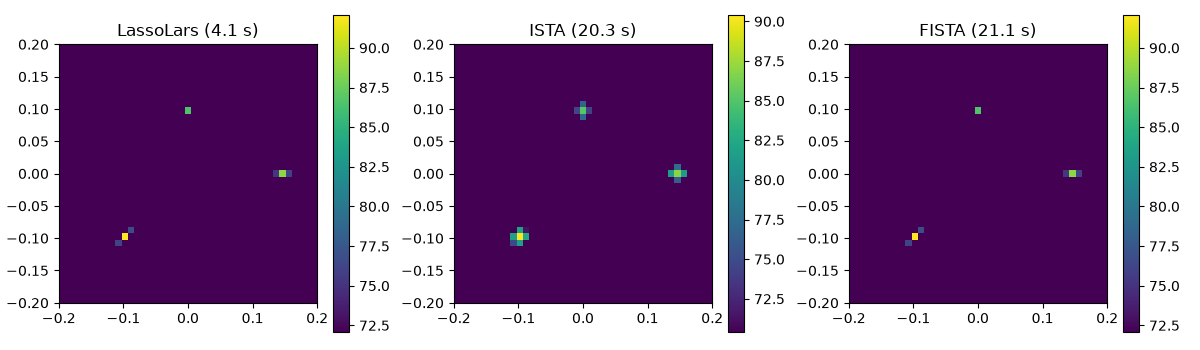
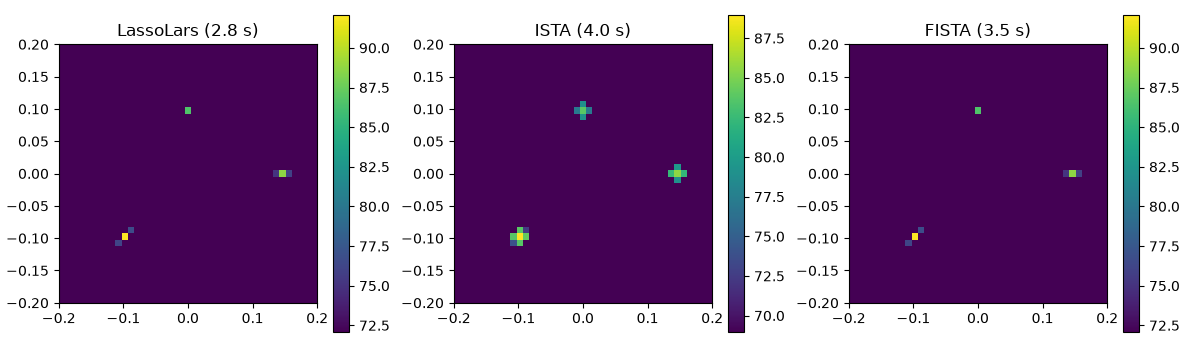
update

diff --git a/src/ucmf/optim/utils.py b/src/ucmf/optim/utils.py
@@ -99,23 +99,49 @@ def apply_adjoint_operator(v, Op):
     return torch.bmm(v.unsqueeze(1), Op).squeeze(1)
 
 
-def default_gamma_from_A(A):
-    """Return the step size ``m / ||A||_2**2`` for normalized least squares.
+DEFAULT_GAMMA_SAFETY = 1.05
 
-    Uses the squared spectral norm of a shared or batched sensing matrix,
-    returning a scalar or a tensor of shape ``(B,)`` respectively. It is the
-    largest eigenvalue of the smaller Gram matrix (``A.T @ A`` or ``A @ A.T``);
-    a symmetric eigensolver is much faster than an SVD, especially on GPUs.
-    The computation does not track gradients. Zero or non-finite squared
-    spectral norms raise ValueError.
+
+def default_gamma_from_A(A):
+    """Return the step size ``1 / L`` for normalized least squares.
+
+    ``L = 1.05 * ||A||_2**2 / m`` is the Lipschitz constant of the normalized
+    data term's gradient, with ``||A||_2**2`` estimated by 50 power iterations
+    (:func:`estimate_squared_spectral_norm`). The estimate is a lower bound;
+    the safety factor 1.05 keeps ``gamma <= m / ||A||_2**2`` in typical cases
+    (power iteration converges slowly when the top singular values are close).
+    Shared or batched ``A`` give a scalar or ``(B,)`` tensor. No gradients are
+    tracked. Zero or non-finite estimates raise ValueError.
     """
-    with torch.no_grad():
-        gram = A.mT @ A if A.shape[-1] <= A.shape[-2] else A @ A.mT
-        L = torch.linalg.eigvalsh(gram)[..., -1] / float(A.shape[-2])
-        if torch.any(~torch.isfinite(L) | (L <= 0)):
-            msg = 'A must have a finite, nonzero spectral norm when gamma is omitted.'
-            raise ValueError(msg)
+    L = DEFAULT_GAMMA_SAFETY * estimate_squared_spectral_norm(A) / float(A.shape[-2])
+    if torch.any(~torch.isfinite(L) | (L <= 0)):
+        msg = 'A must have a finite, nonzero spectral norm when gamma is omitted.'
+        raise ValueError(msg)
     return 1.0 / L
+
+
+@torch.no_grad()
+def estimate_squared_spectral_norm(A, n_iter=50, seed=0):
+    """Estimate ``||A||_2**2`` by power iteration on ``A.T @ A``.
+
+    Works for a shared ``(m, n)`` or batched ``(B, m, n)`` matrix and returns a
+    scalar or a ``(B,)`` tensor. The result is the Rayleigh quotient
+    ``||A v||**2`` of the final unit vector ``v``, i.e. a lower bound of the
+    exact value; callers needing a safe Lipschitz bound apply a safety factor.
+
+    The start vector is drawn from a dedicated CPU generator seeded with
+    ``seed``: results are deterministic and the global RNG is not consumed.
+    A fixed ``n_iter`` (no tolerance check) avoids host-device syncs.
+    """
+    generator = torch.Generator().manual_seed(seed)
+    v = torch.randn(*A.shape[:-2], A.shape[-1], 1, generator=generator, dtype=A.dtype).to(A.device)
+    v = v / torch.linalg.vector_norm(v, dim=-2, keepdim=True)
+    for _ in range(n_iter):
+        # v <- A.T A v / ||A.T A v||, (..., n, 1)
+        v = A.mT @ (A @ v)
+        v = v / torch.linalg.vector_norm(v, dim=-2, keepdim=True)
+    # Rayleigh quotient v.T A.T A v = ||A v||**2 for unit v.
+    return torch.linalg.vector_norm(A @ v, dim=(-2, -1)) ** 2
 
 
 def resolve_batch_param(value, batch_size, name):

diff --git a/tests/test_callbacks.py b/tests/test_callbacks.py
@@ -22,8 +22,9 @@ def test_default_step_and_threshold_use_normalized_objective(solver_type):
 
     solver(torch.zeros(1, 3), A=A, lam=0.2, t=1)
 
-    torch.testing.assert_close(collector.gammas_tensor, torch.tensor([0.75]))
-    torch.testing.assert_close(collector.thetas_tensor, torch.tensor([0.15]))
+    # gamma = m / (1.05 * ||A||_2**2) = 3 / (1.05 * 4); theta = lam * gamma.
+    torch.testing.assert_close(collector.gammas_tensor, torch.tensor([0.75 / 1.05]))
+    torch.testing.assert_close(collector.thetas_tensor, torch.tensor([0.15 / 1.05]))
 
 
 @pytest.mark.parametrize('gamma', [0.25, torch.tensor(0.25), [0.25, 0.5]])
@@ -97,7 +98,8 @@ def test_custom_callbacks_can_stop_at_either_boundary(solver_type, stop_at):
             if stop_at == 'end':
                 solver.stop = True
 
-    actual = solver_type(callbacks=[Stop(), outputs])(torch.ones(2), A=torch.eye(2), lam=0.0, t=8)
+    # gamma = m / ||A||_2**2 = 2: one step solves A = I exactly.
+    actual = solver_type(callbacks=[Stop(), outputs])(torch.ones(2), A=torch.eye(2), lam=0.0, gamma=2.0, t=8)
 
     completed = 0 if stop_at == 'begin' else 1
     assert len(outputs.intermediates) == completed
@@ -109,7 +111,8 @@ def test_stopper_converges_and_resets_between_solves(solver_type):
     stopper = SolutionChangeStopper(tol=1e-9, check_every=1)
     outputs = IntermediateOutputCollector()
     solver = solver_type(callbacks=[stopper, outputs])
-    x = solver(torch.ones(2, 3), A=torch.eye(3), lam=0.0, t=100)
+    # gamma = m / ||A||_2**2 = 3: one step solves A = I exactly.
+    x = solver(torch.ones(2, 3), A=torch.eye(3), lam=0.0, gamma=3.0, t=100)
 
     torch.testing.assert_close(x, torch.ones(2, 3))
     assert stopper.converged
@@ -117,7 +120,7 @@ def test_stopper_converges_and_resets_between_solves(solver_type):
     assert stopper.n_steps == 2
     assert len(outputs.intermediates) == 2
 
-    solver(torch.zeros(2, 3), A=torch.eye(3), lam=0.0, t=100)
+    solver(torch.zeros(2, 3), A=torch.eye(3), lam=0.0, gamma=3.0, t=100)
     assert stopper.converged
     assert stopper.stop_iter == 0
     assert stopper.n_steps == 1
@@ -128,14 +131,14 @@ def test_stopper_converges_and_resets_between_solves(solver_type):
 def test_stopper_checks_only_every_check_every_steps(solver_type):
     stopper = SolutionChangeStopper(tol=1e-9, check_every=5)
     solver = solver_type(callbacks=[stopper])
-    solver(torch.ones(2, 3), A=torch.eye(3), lam=0.0, t=100)
+    solver(torch.ones(2, 3), A=torch.eye(3), lam=0.0, gamma=3.0, t=100)
     assert stopper.converged
     assert stopper.stop_iter == 4
     assert stopper.n_steps == 5
 
     stopper = SolutionChangeStopper(tol=1e-9, check_every=5)
     solver = solver_type(callbacks=[stopper])
-    solver(torch.ones(2, 3), A=torch.eye(3), lam=0.0, t=3)
+    solver(torch.ones(2, 3), A=torch.eye(3), lam=0.0, gamma=3.0, t=3)
     assert not stopper.converged
     assert stopper.last_change is None
     assert stopper.n_steps == 3

diff --git a/tests/test_optim_utils.py b/tests/test_optim_utils.py
@@ -4,6 +4,7 @@ from ucmf.optim.utils import (
     apply_adjoint_operator,
     apply_forward_operator,
     default_gamma_from_A,
+    estimate_squared_spectral_norm,
     prepare_sensing_matrix,
     resolve_batch_param,
     to_batch_vector,
@@ -84,14 +85,53 @@ def test_sensing_matrix_is_detached_contiguous_without_conversion():
 
 @pytest.mark.parametrize('batched', [False, True])
 def test_default_step_size_uses_spectral_norm_without_autograd(batched):
+    # ||A||_2**2 = 4 (and 16), m = 2, safety 1.05: gamma = m / (1.05 * ||A||_2**2).
     A = torch.diag(torch.tensor([2.0, 1.0]))
     if batched:
         A = torch.stack([A, 2 * A])
     A.requires_grad_()
-    expected = torch.tensor([0.5, 0.125]) if batched else torch.tensor(0.5)
+    expected = torch.tensor([2 / 4.2, 2 / 16.8]) if batched else torch.tensor(2 / 4.2)
     result = default_gamma_from_A(A)
     torch.testing.assert_close(result, expected)
     assert not result.requires_grad
+
+
+@pytest.mark.parametrize('batched', [False, True])
+def test_power_iteration_estimates_squared_spectral_norm_from_below(batched):
+    # Accuracy depends on the gap sigma_2 / sigma_1 (here 0.8 by construction);
+    # generic random matrices may converge much more slowly.
+    torch.manual_seed(1)
+    batch = (3,) if batched else ()
+    U = torch.linalg.qr(torch.randn(*batch, 40, 25, dtype=torch.float64)).Q
+    V = torch.linalg.qr(torch.randn(*batch, 25, 25, dtype=torch.float64)).Q
+    sigma = torch.linspace(0.8, 0.1, 25, dtype=torch.float64)
+    sigma[0] = 1.0
+    A = (U * sigma) @ V.mT
+    A.requires_grad_()
+    estimate = estimate_squared_spectral_norm(A)
+    assert estimate.shape == batch
+    assert not estimate.requires_grad
+    torch.testing.assert_close(estimate, torch.ones(batch, dtype=torch.float64), rtol=1e-12, atol=0)
+
+
+def test_power_iteration_is_a_lower_bound_for_random_matrices():
+    torch.manual_seed(1)
+    A = torch.randn(20, 40, 25, dtype=torch.float64)
+    exact = torch.linalg.matrix_norm(A, ord=2) ** 2
+    assert torch.all(estimate_squared_spectral_norm(A) <= exact * (1 + 1e-12))  # Rayleigh quotient
+
+
+def test_power_iteration_is_exact_for_diagonal_matrix():
+    A = torch.diag(torch.tensor([3.0, 1.0, 0.5], dtype=torch.float64))
+    torch.testing.assert_close(estimate_squared_spectral_norm(A), torch.tensor(9.0, dtype=torch.float64))
+
+
+def test_power_iteration_is_deterministic_and_leaves_global_rng_untouched():
+    A = torch.randn(30, 20, dtype=torch.float64)
+    state = torch.get_rng_state()
+    first = estimate_squared_spectral_norm(A)
+    assert torch.equal(torch.get_rng_state(), state)
+    assert torch.equal(estimate_squared_spectral_norm(A), first)
 
 
 def test_tensor_validation_does_not_modify_input_or_autograd():

diff --git a/tests/test_ista.py b/tests/test_ista.py
@@ -4,6 +4,7 @@ import inspect
 import math
 
 from ucmf import FISTA, ISTA
+from ucmf.optim.utils import default_gamma_from_A
 
 import numpy as np
 import pytest
@@ -13,11 +14,16 @@ SOLVERS = [ISTA, FISTA]
 
 
 def numpy_reference(A, y, x0, lam, gamma, *, steps, positive, accelerated):
-    """Independent, sample-wise matrix-vector implementation in NumPy."""
+    """Independent, sample-wise matrix-vector implementation in NumPy.
+
+    The default step is taken from ucmf (power-iteration estimate for the whole,
+    possibly batched A); its formula is tested separately in test_optim_utils.
+    """
+    default_steps = np.broadcast_to(default_gamma_from_A(torch.from_numpy(A)).numpy(), (len(y),))
     solutions = []
     for sample, observation in enumerate(y):
         matrix = A if A.ndim == 2 else A[sample]
-        step = matrix.shape[0] / np.linalg.norm(matrix, ord=2) ** 2 if gamma is None else gamma[sample]
+        step = default_steps[sample] if gamma is None else gamma[sample]
         x = x0[sample].copy()
         extrapolated = x.copy()
         momentum = 1.0
@@ -145,7 +151,8 @@ def test_sensing_matrix_is_fixed_but_measurements_remain_differentiable(solver_t
     A = torch.eye(2, requires_grad=True)
     y = torch.ones(1, 2, requires_grad=True)
     solver = solver_type()
-    solver(y, A=A, lam=0.0, t=2).sum().backward()
+    # gamma = m / ||A||_2**2 = 2: each step solves A = I exactly.
+    solver(y, A=A, lam=0.0, gamma=2.0, t=2).sum().backward()
 
     assert A.grad is None
     torch.testing.assert_close(y.grad, torch.ones_like(y))

diff --git a/examples/benchmark_solvers.py b/examples/benchmark_solvers.py
@@ -18,6 +18,7 @@ import acoular as ac
 from acoular.solvers import L1RegularizedLeastSquaresProblem, LeastSquaresSolver, SolverBase, SolverOutput
 
 from ucmf.acoular import FISTATorchSolver, ISTATorchSolver
+from ucmf.optim.utils import default_gamma_from_A
 
 import numpy as np
 import torch
@@ -35,14 +36,21 @@ class PylopsSolver(LeastSquaresSolver):
 
     PyLops minimizes ``||y - A x||² + eps ||x||₁``. With ``eps = 2 m lam`` this
     matches ``||y - A x||² / (2 m) + lam ||x||₁`` for ``lam = alpha * unit_mult``.
+    PyLops' step ``x + a A.T (y - A x)`` with threshold ``eps a / 2`` equals the
+    ucmf step ``x + gamma A.T (y - A x) / m`` with threshold ``gamma lam`` for
+    ``a = gamma / m``. Both use ucmf's default ``gamma``, so the iterates agree.
     """
 
     algorithm = Callable()
     n_iter = Int()
 
     def solve(self, problem, dictionary_matrix, data, start_value=None):
-        eps = 2 * dictionary_matrix.shape[0] * problem.alpha * problem.unit_mult
-        x, _, _ = self.algorithm(Op=MatrixMult(dictionary_matrix), y=data, niter=self.n_iter, eps=eps, tol=0.0)
+        m = dictionary_matrix.shape[0]
+        eps = 2 * m * problem.alpha * problem.unit_mult
+        step = float(default_gamma_from_A(torch.from_numpy(dictionary_matrix))) / m
+        x, _, _ = self.algorithm(
+            Op=MatrixMult(dictionary_matrix), y=data, niter=self.n_iter, eps=eps, alpha=step, tol=0.0
+        )
         return SolverOutput(solution=x)
 
 

diff --git a/tests/test_weighted_forward.py b/tests/test_weighted_forward.py
@@ -4,6 +4,7 @@ import math
 
 from ucmf import FISTA, ISTA
 from ucmf.optim import IterationCallback
+from ucmf.optim.utils import default_gamma_from_A
 
 import numpy as np
 import pytest
@@ -11,12 +12,16 @@ import torch
 
 
 def weighted_numpy_reference(A, W, y, x0, lam, gamma, *, positive, accelerated):
-    """Independent weighted-update oracle, not a classical LASSO solver."""
+    """Independent weighted-update oracle, not a classical LASSO solver.
+
+    The default step is taken from ucmf (power-iteration estimate for the whole A).
+    """
+    default_steps = np.broadcast_to(default_gamma_from_A(torch.from_numpy(A)).numpy(), (len(y),))
     solutions = []
     for sample, observation in enumerate(y):
         matrix = A if A.ndim == 2 else A[sample]
         weight = W if W.ndim == 2 else W[sample]
-        step = matrix.shape[0] / np.linalg.norm(matrix, ord=2) ** 2 if gamma is None else gamma[sample]
+        step = default_steps[sample] if gamma is None else gamma[sample]
         x = x0[sample].copy()
         z = x.copy()
         tk = 1.0

diff --git a/src/ucmf/optim/ista.py b/src/ucmf/optim/ista.py
@@ -234,7 +234,8 @@ class ISTA(nn.Module):
             lam (float | Tensor | None): required regularization
                 strength, scalar or per-sample with shape ``(B,)`` / ``(B, 1)``.
             gamma (float | Tensor | None): scalar or per-sample
-                step size. Defaults to ``m / ||A||_2**2`` for LS.
+                step size. Defaults to ``1 / L`` with ``L = 1.05 * ||A||_2**2 / m``
+                (power-iteration estimate, see ``default_gamma_from_A``).
 
         Returns
         -------

diff --git a/examples/sparse_recovery.py b/examples/sparse_recovery.py
@@ -40,8 +40,8 @@ st = ac.SteeringVector(grid=rg, mics=mg)
 # for a solver-only runtime comparison.
 solvers = {
     'LassoLars': LassoLarsSolver(backend_kwargs={'fit_intercept': False}),
-    'ISTA': ISTATorchSolver(),
-    'FISTA': FISTATorchSolver(),
+    'ISTA': ISTATorchSolver(device='cuda', n_iter=2000),
+    'FISTA': FISTATorchSolver(device='cuda', n_iter=2000),
 }
 plt.figure(figsize=(12, 3.5))
 for i, (name, solver) in enumerate(solvers.items(), start=1):

diff --git a/README.md b/README.md
@@ -156,16 +156,17 @@ bf = ac.BeamformerCMF(freq_data=ps, steer=st, problem=problem)
 [`examples/sparse_recovery.py`](examples/sparse_recovery.py) simulates the
 three white-noise sources of Acoular's introductory example in front of the
 64-microphone array and solves the same CMF problem (third-octave band at
-8 kHz, `alpha=1e-9`) with LassoLars, ISTA, and FISTA (5000 iterations each,
-CPU, float64). The titles show the total computation time, including the
-per-bin CSM and dictionary assembly shared by all solvers:
+8 kHz, `alpha=1e-9`) with LassoLars (CPU) and ISTA and FISTA (2000 iterations
+each, CUDA GPU, float64; the example requires a CUDA device). The titles show
+the total computation time, including the per-bin CSM and dictionary assembly
+shared by all solvers:
 
 ![CMF maps of three sources with LassoLars, ISTA, and FISTA](docs/images/three_sources_cmf.png)
 
-FISTA matches the LassoLars map up to a relative difference of about `2e-4`.
-ISTA has not yet converged after 5000 iterations and still yields
+FISTA matches the LassoLars map up to a relative difference of about `8e-4`.
+ISTA has not yet converged after 2000 iterations and still yields
 spatially smeared sources. For this small, very sparse problem, LassoLars
-is faster than 5000 first-order iterations on the CPU.
+on the CPU is still faster than 2000 first-order iterations on the GPU.
 
 ### Benchmark: ucmf vs. PyLops
 
@@ -175,29 +176,30 @@ and dictionary assembly) of ucmf and PyLops ISTA/FISTA on the same problem:
 1000 iterations per frequency bin without early stopping, 5 frequency bins,
 dictionary of 4032 × 1681. PyLops has no non-negativity constraint, so all
 solvers use `nonnegative=False`; PyLops' objective `||y - A x||² + eps ||x||₁`
-matches with `eps = 2 m alpha unit_mult`. Thread counts are set with
+matches with `eps = 2 m alpha unit_mult`. PyLops gets ucmf's default step size
+(its `alpha = gamma / m`), so both run identical iterations. Thread counts are set with
 `torch.set_num_threads` and threadpoolctl (Acoular sets
 `OPENBLAS_NUM_THREADS=1` on import). Results on 2× Intel Xeon Silver 4214R (24 cores) and an RTX 3090:
 
 | Algorithm | Implementation | Threads | Time [s] | Speed-up vs. PyLops (1 thread) | Rel. diff. to PyLops |
 |---|---|---|---|---|---|
-| ISTA | PyLops | 1 | 38.69 | 1.0x | 0 |
-| ISTA | ucmf CPU float64 | 1 | 40.30 | 1.0x | 5.9e-16 |
-| ISTA | PyLops | 24 | 9.95 | 3.9x | 3.6e-16 |
-| ISTA | ucmf CPU float64 | 24 | 5.20 | 7.4x | 4.7e-16 |
-| ISTA | ucmf CUDA float64 | - | 1.40 | 27.7x | 4.7e-16 |
-| ISTA | ucmf CUDA float32 | - | 0.68 | 56.5x | 8.0e-06 |
-| FISTA | PyLops | 1 | 56.08 | 1.0x | 0 |
-| FISTA | ucmf CPU float64 | 1 | 40.76 | 1.4x | 1.4e-13 |
-| FISTA | PyLops | 24 | 12.29 | 4.6x | 1.8e-13 |
-| FISTA | ucmf CPU float64 | 24 | 4.65 | 12.1x | 1.3e-13 |
-| FISTA | ucmf CUDA float64 | - | 1.55 | 36.1x | 9.7e-14 |
-| FISTA | ucmf CUDA float32 | - | 0.81 | 69.0x | 8.4e-04 |
+| ISTA | PyLops | 1 | 37.05 | 1.0x | 0 |
+| ISTA | ucmf CPU float64 | 1 | 36.28 | 1.0x | 5.0e-16 |
+| ISTA | PyLops | 24 | 10.28 | 3.6x | 4.0e-16 |
+| ISTA | ucmf CPU float64 | 24 | 5.25 | 7.1x | 4.4e-16 |
+| ISTA | ucmf CUDA float64 | - | 0.95 | 38.9x | 4.2e-16 |
+| ISTA | ucmf CUDA float32 | - | 0.67 | 55.1x | 2.4e-04 |
+| FISTA | PyLops | 1 | 53.82 | 1.0x | 0 |
+| FISTA | ucmf CPU float64 | 1 | 36.46 | 1.5x | 1.3e-13 |
+| FISTA | PyLops | 24 | 13.08 | 4.1x | 1.4e-13 |
+| FISTA | ucmf CPU float64 | 24 | 4.36 | 12.3x | 2.5e-13 |
+| FISTA | ucmf CUDA float64 | - | 0.97 | 55.4x | 4.6e-13 |
+| FISTA | ucmf CUDA float32 | - | 0.72 | 74.9x | 8.1e-04 |
 
 Both implementations produce the same iterates up to rounding. Single-threaded,
 ISTA runs equally fast in both; PyLops FISTA is slower than PyLops ISTA,
-ucmf FISTA is not. Multi-threaded, ucmf is 1.9–2.6× faster than PyLops, and on
-the GPU another 3–8× faster than its own multi-threaded CPU run.
+ucmf FISTA is not. Multi-threaded, ucmf is 2.0–3.0× faster than PyLops, and on
+the GPU another 4.5–8× faster than its own multi-threaded CPU run.
 
 ## Extending the iteration
 
